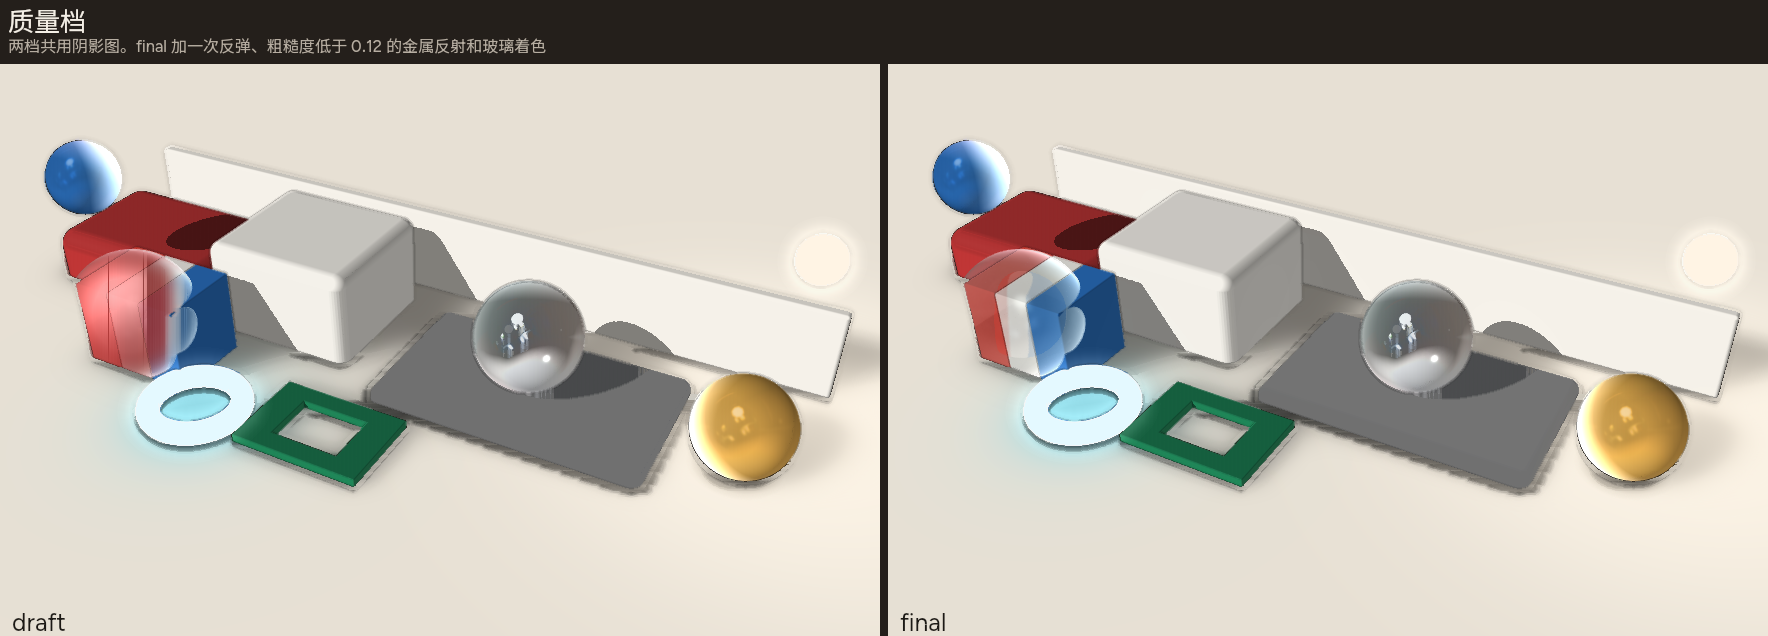
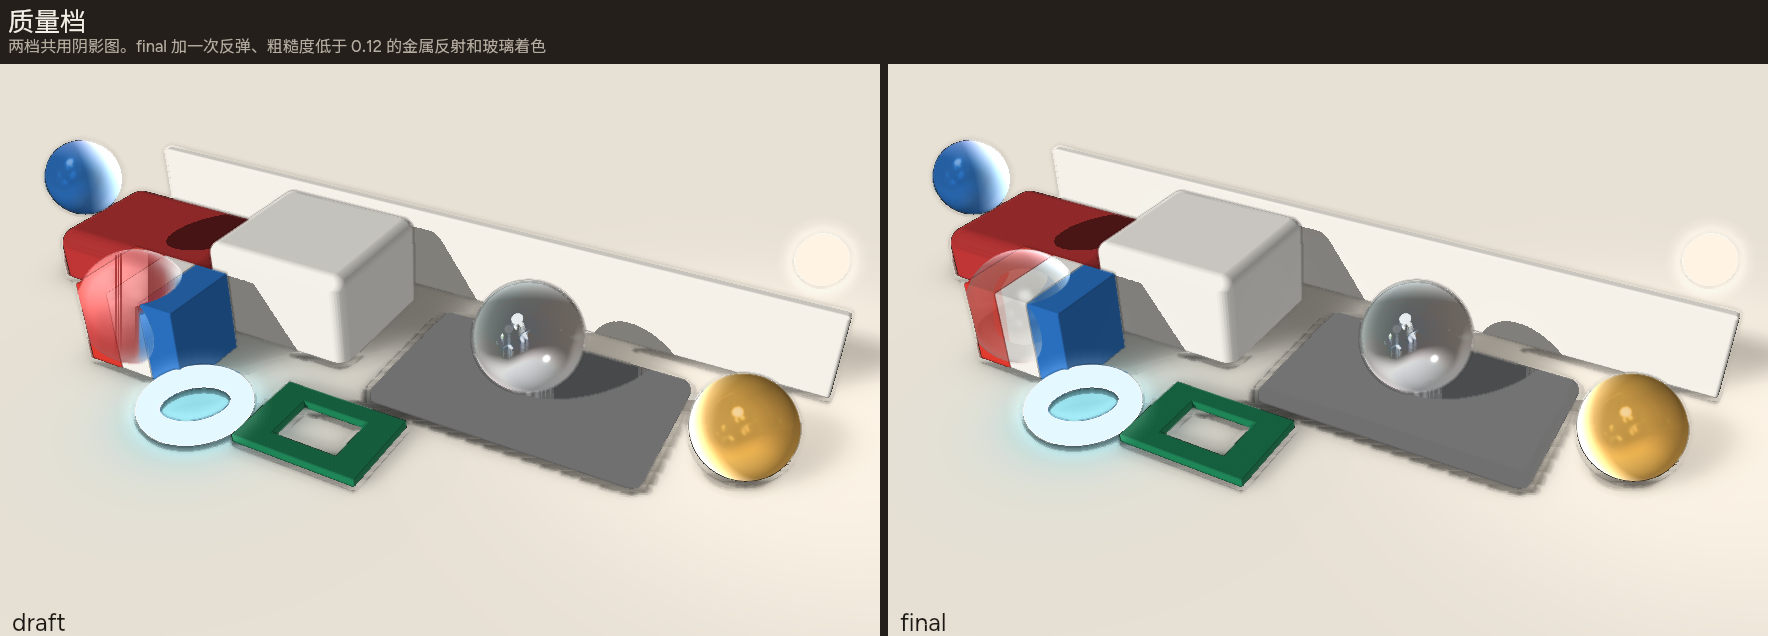
QUALITY-6 rest5f: clearer quality/camera glass; drop lines ground
rest5e min 7/6/7/6/7 — camera cleared. Clearer glass on quality and all camera
cells (B final RGB bands). Remove lines fill-less ground whose detached shadows
read as float for B while A already scored lines 8.

Changed region(s): [[0.0311, 0.3884, 0.1244, 0.5975], [0.5288, 0.3884, 0.6222, 0.5975]]

diff --git a/scripts/gallery-3d.ts b/scripts/gallery-3d.ts
@@ -305,11 +305,11 @@ function lines(): string {
   // visible. Framing keeps left/right empty ≤ 15% and empty-below ≤ 25%.
   // Technical shading avoids studio specular blow-past of overexposureMax.
   // Rest5b: matte cream fills — bare fill read as brushed diagonal banding for A.
-  // Rest5d: fill-less ground at y=620; board y=55 (further drop broke hidden-line
-  // mask ≥0.9). Elbow halo 8→3. Rest5e leaves lines seating; tips manga gold + camera glass.
-  return `<layer width="1180" height="516" camera="fov 36, orbit 28 18, distance 1060, at 560 340 0" shading="technical">
-    <ground id="ground" y="620" rotateX="90" shadow-blur="70" shadow-opacity="0.28" />
-    <layer x="40" y="55" width="1100" height="580" rotateX="38" preserve-3d>
+  // Rest5f: drop the fill-less ground. Detached ground shadows made B call float
+  // (rest5e lines A 8 / B 6); pre-ground tips scored lines ≥7. Board back at y=20.
+  // Elbow halo 8→3 (banded halo).
+  return `<layer width="1180" height="516" camera="fov 36, orbit 28 18, distance 1060, at 560 310 0" shading="technical">
+    <layer x="40" y="20" width="1100" height="580" rotateX="38" preserve-3d>
       <rect id="box" x="40" y="70" width="260" height="200" depth="110" fill="#f4efe6" material="matte" stroke="#1c1915" stroke-width="3 2 1.9" hidden="#a89880" />
       <cylinder id="piercing" cx="170" cy="170" r="52" height="320" fill="#ebe3d6" material="matte" stroke="#1c1915" stroke-width="3 2 1.9" hidden="#a89880" />
       <rect id="round-box" x="400" y="80" width="210" height="160" depth="96" rx="26" fill="#f4efe6" material="matte" stroke="#1c1915" stroke-width="3 2 1.9" hidden="#a89880" rotateY="-26" />
@@ -409,9 +409,16 @@ function buildPlates(): { sheet: string; title: string; cols: number; cells: Pla
     name: `3d-shade-${name}`,
     source: cell(name, withGoldSphere(bench(BENCH_CAMERA, `shading="${name}"`)), BENCH_W, BENCH_H, '#4a453e'),
   }))
+  // Rest5f: B final glass read as RGB vertical bands through the stripes — same
+  // clearer glass treatment as rest5e high/side camera.
+  const CLEAR_GLASS =
+    '<sphere id="glass" cx="250" cy="250" r="52" z="52" fill="#f4f8f6cc" material="glass 0.04" />'
+  const BENCH_GLASS =
+    '<sphere id="glass" cx="264" cy="268" r="58" z="58" fill="#d8ebe6a0" material="glass 0.06" />'
+  const withClearGlass = (body: string) => body.replace(BENCH_GLASS, CLEAR_GLASS)
   const quality = (['draft', 'final'] as const).map((name) => ({
     name: `3d-quality-${name}`,
-    source: cell(name, withGoldSphere(bench(BENCH_CAMERA, `quality="${name}"`)), BENCH_W, BENCH_H),
+    source: cell(name, withClearGlass(withGoldSphere(bench(BENCH_CAMERA, `quality="${name}"`))), BENCH_W, BENCH_H),
   }))
   // Dark page for sphere highlightArea monotonicity (examples-3d / gallery
   // pair gates). Box silver comes from sphere-excluded flat_metal lift.
@@ -439,13 +446,8 @@ function buildPlates(): { sheet: string; title: string; cols: number; cells: Pla
         '<sphere id="blue-float" cx="165" cy="118" r="34" z="50" fill="#2a6fbe" material="plastic 0.42" />',
       )
     }
-    // Rest5e: B high/side glass read as RGB streak / muddy smear through stripes.
-    if (item.file === 'high' || item.file === 'side') {
-      body = body.replace(
-        '<sphere id="glass" cx="264" cy="268" r="58" z="58" fill="#d8ebe6a0" material="glass 0.06" />',
-        '<sphere id="glass" cx="250" cy="250" r="52" z="52" fill="#f4f8f6cc" material="glass 0.04" />',
-      )
-    }
+    // Rest5e/f: clearer glass on every camera cell (B final/high RGB streak).
+    body = withClearGlass(body)
     return {
       name: `3d-cam-${item.file}`,
       source: cell(item.label, body, BENCH_W, BENCH_H, '#4a453e'),
